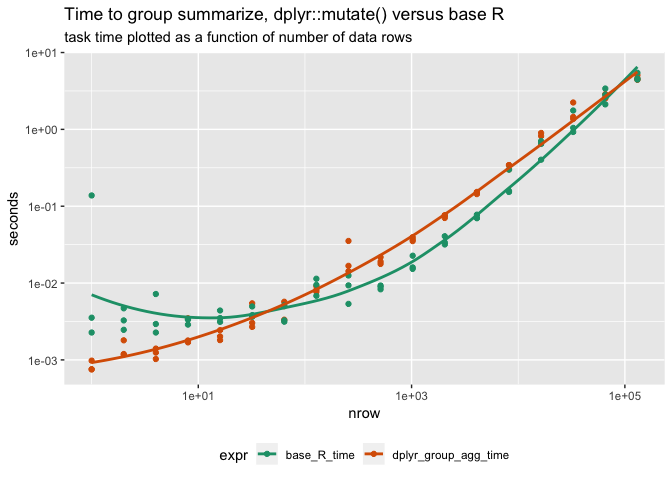
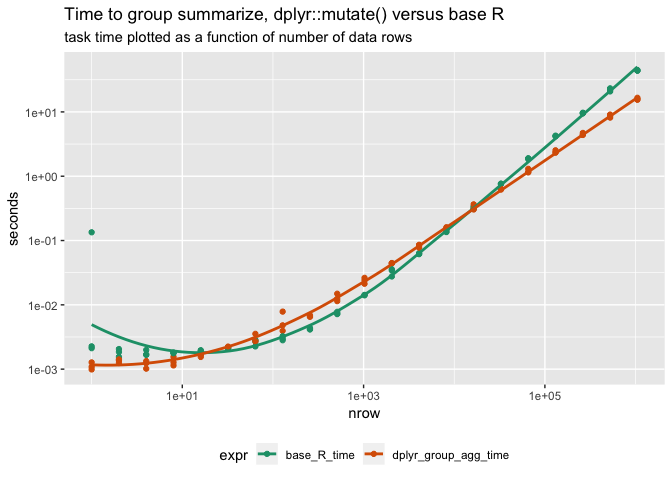
larger range timing

diff --git a/dplyr/time_grouped_max.md b/dplyr/time_grouped_max.md
@@ -90,12 +90,15 @@ new_names <- "col_1_max"
 #' @return d with new per-group aggregation columns added
 #'
 window_summary_base <- function(d, group_cols, target_cols, new_names, FUN = max) {
+  # build a table of per-group aggregations of columns of interest
   d_agg <- aggregate(d[, target_cols, drop = FALSE], 
                      d[, group_cols, drop = FALSE], 
                      FUN = FUN)
+  # re-map these derived columns to new column names
   nm_map <- c(group_cols, new_names)
   names(nm_map) <- c(group_cols, target_cols)
   colnames(d_agg) <- nm_map[colnames(d_agg)]
+  # merge the aggregation results back into original data.frame
   merge(d, d_agg, by = group_cols)
 }
 
@@ -105,11 +108,11 @@ d %.>%
 
 |    col\_1 | group\_1 | group\_2 |
 | --------: | :------- | :------- |
-| 0.8875918 | b        | b        |
-| 0.9799595 | b        | a        |
-| 0.3740186 | b        | a        |
-| 0.0469195 | a        | a        |
-| 0.6826373 | a        | a        |
+| 0.0329693 | a        | b        |
+| 0.1148309 | a        | a        |
+| 0.0975654 | b        | b        |
+| 0.9320809 | b        | b        |
+| 0.7320338 | a        | a        |
 
 ``` r
 window_summary_base(d, group_cols, target_cols, new_names, max) %.>%
@@ -118,11 +121,11 @@ window_summary_base(d, group_cols, target_cols, new_names, max) %.>%
 
 | group\_1 | group\_2 |    col\_1 | col\_1\_max |
 | :------- | :------- | --------: | ----------: |
-| a        | a        | 0.0469195 |   0.6826373 |
-| a        | a        | 0.6826373 |   0.6826373 |
-| b        | a        | 0.9799595 |   0.9799595 |
-| b        | a        | 0.3740186 |   0.9799595 |
-| b        | b        | 0.8875918 |   0.8875918 |
+| a        | a        | 0.1148309 |   0.7320338 |
+| a        | a        | 0.7320338 |   0.7320338 |
+| a        | b        | 0.0329693 |   0.0329693 |
+| b        | b        | 0.0975654 |   0.9320809 |
+| b        | b        | 0.9320809 |   0.9320809 |
 
 ``` r
 #' Add aggregations of target columns by groups to data.frame.
@@ -132,13 +135,28 @@ window_summary_base(d, group_cols, target_cols, new_names, max) %.>%
 #' @param target_cols names of columns to summarize (non-empty).
 #' @param new_names new column names for results.
 #' @param FUN aggregation function
+#' @param env evaluatin environment
 #' @return d with new per-group aggregation columns added
 #'
-window_summary_dplyr <- function(d, group_cols, target_cols, new_names, FUN = max) {
+window_summary_dplyr <- function(d, group_cols, target_cols, new_names, FUN = max,
+                                 env = parent.frame()) {
+  # in all cases want to use a grouped mutate
   dg <- group_by(d, !!!rlang::syms(group_cols)) 
-  for(i in seq_len(length(target_cols))) {
-    dg <- mutate(dg, !!rlang::sym(new_names[[i]]) := FUN(!!rlang::sym(target_cols[[i]])))
-  }
+  # first alternative: splice eval method
+  force(env)
+  eval_env <- new.env(parent = env)
+  assign("FUN", FUN, envir = eval_env)
+  terms <- lapply(seq_len(length(target_cols)),
+                  function(i) {
+                    rlang::parse_quo(paste(new_names[[i]], " = FUN(", target_cols[[i]], ")"),
+                                     env = eval_env)
+                  })
+  dg <- mutate(dg, !!!terms)
+  # # second alternate: non-slice way to mutate parametricly
+  # for(i in seq_len(length(target_cols))) {
+  #   dg <- mutate(dg, !!rlang::sym(new_names[[i]]) := FUN(!!rlang::sym(target_cols[[i]])))
+  # }
+  # # third alternative: mutate_at() with an appropriat renaming strategy
   ungroup(dg)
 }
 
@@ -146,17 +164,17 @@ window_summary_dplyr(d, group_cols, target_cols, new_names, max) %.>%
   knitr::kable(.)
 ```
 
-|    col\_1 | group\_1 | group\_2 | col\_1\_max |
-| --------: | :------- | :------- | ----------: |
-| 0.8875918 | b        | b        |   0.8875918 |
-| 0.9799595 | b        | a        |   0.9799595 |
-| 0.3740186 | b        | a        |   0.9799595 |
-| 0.0469195 | a        | a        |   0.6826373 |
-| 0.6826373 | a        | a        |   0.6826373 |
+|    col\_1 | group\_1 | group\_2 | col\_1\_max = FUN(col\_1) |
+| --------: | :------- | :------- | ------------------------: |
+| 0.0329693 | a        | b        |                 0.0329693 |
+| 0.1148309 | a        | a        |                 0.7320338 |
+| 0.0975654 | b        | b        |                 0.9320809 |
+| 0.9320809 | b        | b        |                 0.9320809 |
+| 0.7320338 | a        | a        |                 0.7320338 |
 
 ``` r
 f <- function(k) {
-  d <- mk_data(10, letters, k, 1)
+  d <- mk_data(5, letters, k, 1)
   group_cols <- colnames(d)[grepl("^group_", colnames(d))]
   target_cols <- "col_1"
   new_names <- "col_1_max"
@@ -173,7 +191,7 @@ f <- function(k) {
 }
 
 
-times <- lapply(2^(0:17), f)
+times <- lapply(2^(0:20), f)
 times <- data.frame(data.table::rbindlist(times))
 times$seconds <- times$time/1e9
 
